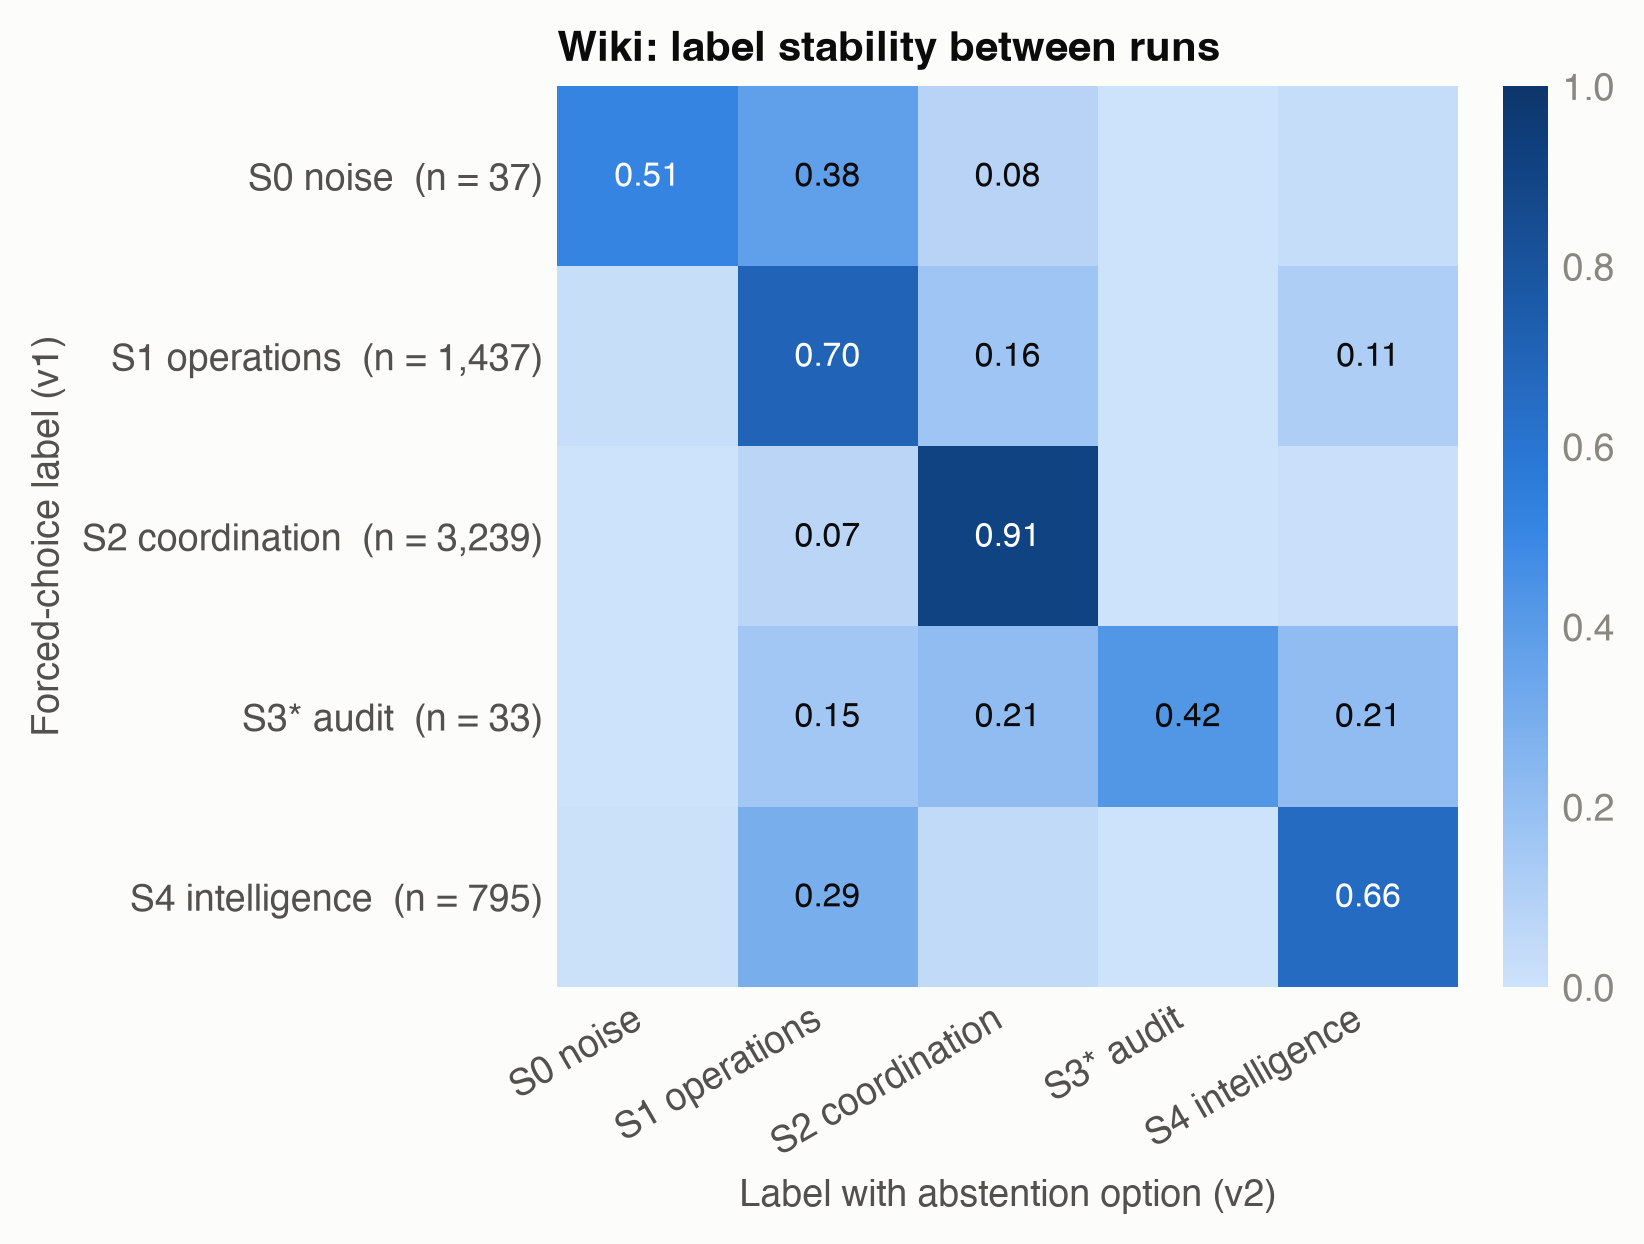
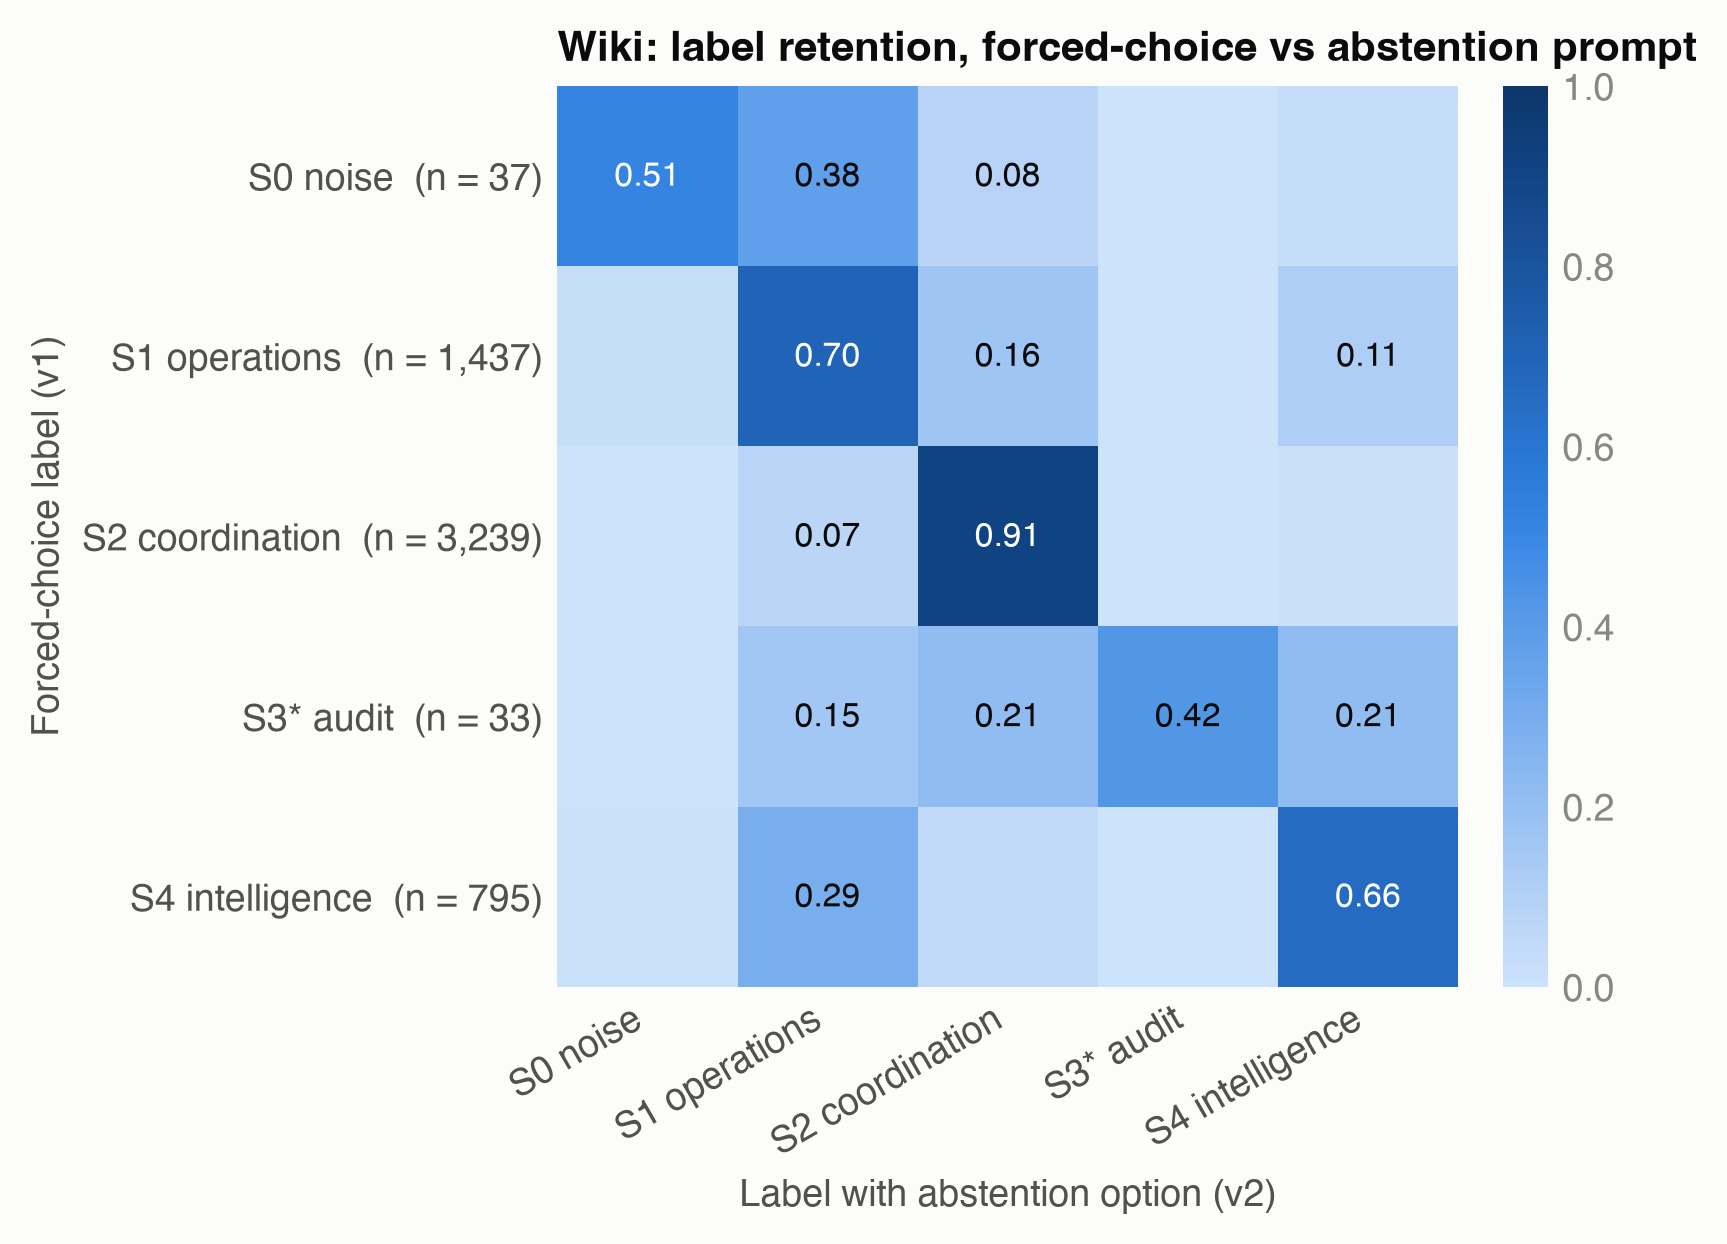
Clarify S3 instability across runs; Figure 4 is cross-prompt retention, not run-to-run
Claude-Session: https://claude.ai/code/session_01YTNhmeKLo3iKKyQQvj8ABM

diff --git a/figures/make_figures.py b/figures/make_figures.py
@@ -189,7 +189,7 @@ def main():
     ax.set_yticklabels([f"{SHORT[r]}  (n = {v1n[r]:,})" for r in rs])
     ax.set_xlabel("Label with abstention option (v2)")
     ax.set_ylabel("Forced-choice label (v1)")
-    ax.set_title("Wiki: label stability between runs")
+    ax.set_title("Wiki: label retention, forced-choice vs abstention prompt")
     for s in ax.spines.values():
         s.set_visible(False)
     ax.tick_params(axis="x", colors=INK2, length=0)

diff --git a/calibration/S5_EVIDENCE.md b/calibration/S5_EVIDENCE.md
@@ -66,7 +66,7 @@ Asking "can we find S5 labels" is the wrong question.
 
 Per Rule 2 these say nothing about S5 either way. They document a judge failure mode: rule-like or official-sounding wording is read as policy. Record-level S5 counts are therefore excluded from results.
 
-2 S3_CONTROL records show real tasking.
+S3_CONTROL is unstable at record level. Each wiki run labelled 2 records S3, and they are different records: v1 (forced choice) `2b63aa68`, `6f747634`; v2 (abstention) `f1851c8f`, `caba3447`. Each run labelled the other run's two S2. All four read as plausible tasking or directives; none is S3 in both runs.
 
 **Verdict:** identity conventions are widespread, but they do not spread page by page. No binding policy is observed. The case for an S5 is weaker than for ExploitGym. Its most plausible locus is outside the observed pages: a shared model or prompt, or channels the corpus does not contain.
 

diff --git a/figures/README.md b/figures/README.md
@@ -52,7 +52,7 @@ Transitions between adjacent turns on the same wiki page (turns in source-date o
 
 **Swarm Traces has no transition figure.** It has no time order (IDs are undocumented, `time_utc` is empty), and its parent links are a payload's own layers and replies, not steps in time.
 
-## Figure 4: Wiki label stability between runs
+## Figure 4: Wiki label retention between the forced-choice (v1) and abstention (v2) prompts
 
 For records judged sufficient in v2: the share of each v1 (forced-choice) label that got each v2 label. Rows have at least 30 records; S3 (2) and S5 (1) are omitted.
 
